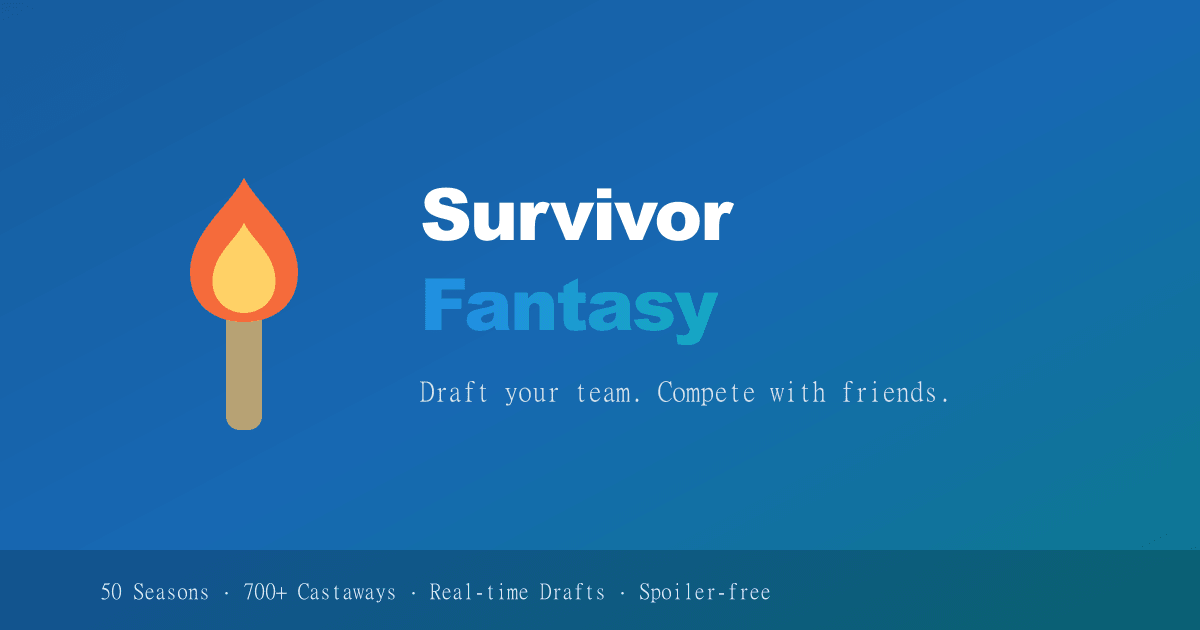
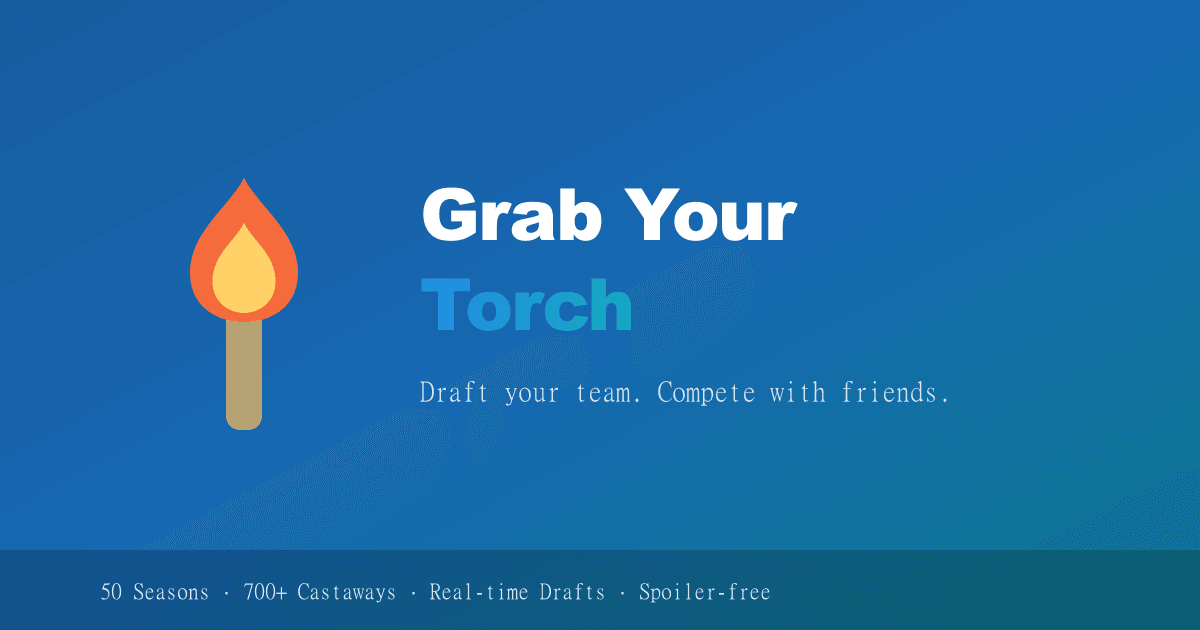
feat: rebrand to Grab Your Torch for grabyourtorch.com
- index.html: title/description/OG/Twitter metadata -> Grab Your Torch,
  og:url and image URLs -> https://grabyourtorch.com/, add canonical link
  and site.webmanifest
- App header, Home hero, Footer disclaimer, README: Survivor Fantasy ->
  Grab Your Torch
- Add sitemap.xml and robots.txt Sitemap line
- Regenerate OG image with new name; favicon/apple-touch PNGs regenerated

Issue #214

Changed region(s): [[0.3392, 0.3016, 0.6783, 0.3921], [0.3392, 0.4222, 0.6167, 0.5429], [0.925, 0.754, 1.0, 0.8746]]

diff --git a/index.html b/index.html
@@ -6,34 +6,36 @@
       name="viewport"
       content="minimum-scale=1, initial-scale=1, width=device-width"
     />
-    <title>Survivor Fantasy — Draft Your Team, Compete with Friends</title>
+    <title>Grab Your Torch — Fantasy Survivor with Friends</title>
     <meta
       name="description"
-      content="Fantasy Survivor league for friends. Draft contestants from any of 50 seasons, earn points for challenge wins, idol plays, and more. Free, spoiler-free, real-time drafts."
+      content="Grab Your Torch is a fantasy Survivor league for friends. Draft contestants from any of 50 seasons, earn points for challenge wins, idol plays, and more. Free, spoiler-free, real-time drafts."
     />
     <meta name="theme-color" content="#228be6" />
+    <link rel="canonical" href="https://grabyourtorch.com/" />
 
     <!-- Favicon -->
     <link rel="icon" type="image/svg+xml" href="/favicon.svg" />
     <link rel="icon" type="image/png" sizes="32x32" href="/favicon-32x32.png" />
     <link rel="icon" type="image/png" sizes="16x16" href="/favicon-16x16.png" />
     <link rel="apple-touch-icon" sizes="180x180" href="/apple-touch-icon.png" />
+    <link rel="manifest" href="/site.webmanifest" />
 
     <!-- Open Graph -->
     <meta property="og:type" content="website" />
-    <meta property="og:site_name" content="Survivor Fantasy" />
+    <meta property="og:site_name" content="Grab Your Torch" />
     <meta
       property="og:title"
-      content="Survivor Fantasy — Draft Your Team, Compete with Friends"
+      content="Grab Your Torch — Fantasy Survivor with Friends"
     />
     <meta
       property="og:description"
       content="Fantasy Survivor league for friends. Draft contestants from any of 50 seasons, earn points for challenge wins, idol plays, and more."
     />
-    <meta property="og:url" content="https://survivor-fantasy-51c4b.web.app/" />
+    <meta property="og:url" content="https://grabyourtorch.com/" />
     <meta
       property="og:image"
-      content="https://survivor-fantasy-51c4b.web.app/og-image.png"
+      content="https://grabyourtorch.com/og-image.png"
     />
     <meta property="og:image:width" content="1200" />
     <meta property="og:image:height" content="630" />
@@ -42,7 +44,7 @@
     <meta name="twitter:card" content="summary_large_image" />
     <meta
       name="twitter:title"
-      content="Survivor Fantasy — Draft Your Team, Compete with Friends"
+      content="Grab Your Torch — Fantasy Survivor with Friends"
     />
     <meta
       name="twitter:description"
@@ -50,7 +52,7 @@
     />
     <meta
       name="twitter:image"
-      content="https://survivor-fantasy-51c4b.web.app/og-image.png"
+      content="https://grabyourtorch.com/og-image.png"
     />
   </head>
   <body>

diff --git a/scripts/generate-web-assets.ts b/scripts/generate-web-assets.ts
@@ -85,10 +85,10 @@ async function generateOgImage() {
 
       <!-- Title text -->
       <text x="420" y="240" font-family="system-ui, -apple-system, sans-serif" font-size="72" font-weight="900" fill="white" letter-spacing="-2">
-        Survivor
+        Grab Your
       </text>
       <text x="420" y="330" font-family="system-ui, -apple-system, sans-serif" font-size="72" font-weight="900" fill="url(#accent)" letter-spacing="-2">
-        Fantasy
+        Torch
       </text>
 
       <!-- Tagline -->

diff --git a/src/components/Home/Home.tsx b/src/components/Home/Home.tsx
@@ -36,11 +36,10 @@ export const Home = () => {
             Fantasy Survivor for friends
           </Text>
           <Title order={1} className={classes.title}>
-            Draft your{" "}
             <Text component="span" variant="gradient" inherit>
-              Survivor Fantasy
+              Grab your torch
             </Text>{" "}
-            team with friends
+            and draft your Survivor fantasy team
           </Title>
 
           <Text className={classes.description} c="dimmed">

diff --git a/src/AppRoutes.tsx b/src/AppRoutes.tsx
@@ -138,10 +138,10 @@ export const AppRoutes = () => {
                   underline="never"
                 >
                   <Text component="span" inherit fw={900}>
-                    Survivor
+                    Grab Your
                   </Text>{" "}
                   <Text component="span" inherit variant="gradient">
-                    Fantasy
+                    Torch
                   </Text>
                 </Anchor>
               </Group>

diff --git a/src/components/Footer/Footer.tsx b/src/components/Footer/Footer.tsx
@@ -38,7 +38,7 @@ export const Footer = () => {
       </Container>
       <Container className={classes.disclaimer}>
         <Text c="dimmed" size="xs" ta="center">
-          Survivor Fantasy is not affiliated with, endorsed by, or connected to
+          Grab Your Torch is not affiliated with, endorsed by, or connected to
           CBS, SEG, or the Survivor TV show. Survivor® is a registered trademark
           of CBS Broadcasting Inc.
         </Text>

diff --git a/README.md b/README.md
@@ -1,5 +1,5 @@
-# survivor-fantasy-ui
+# Grab Your Torch
 
 Hosted with firebase
 
-[Deployed link](https://survivor-fantasy-51c4b.web.app/)
+[Deployed link](https://grabyourtorch.com/)
